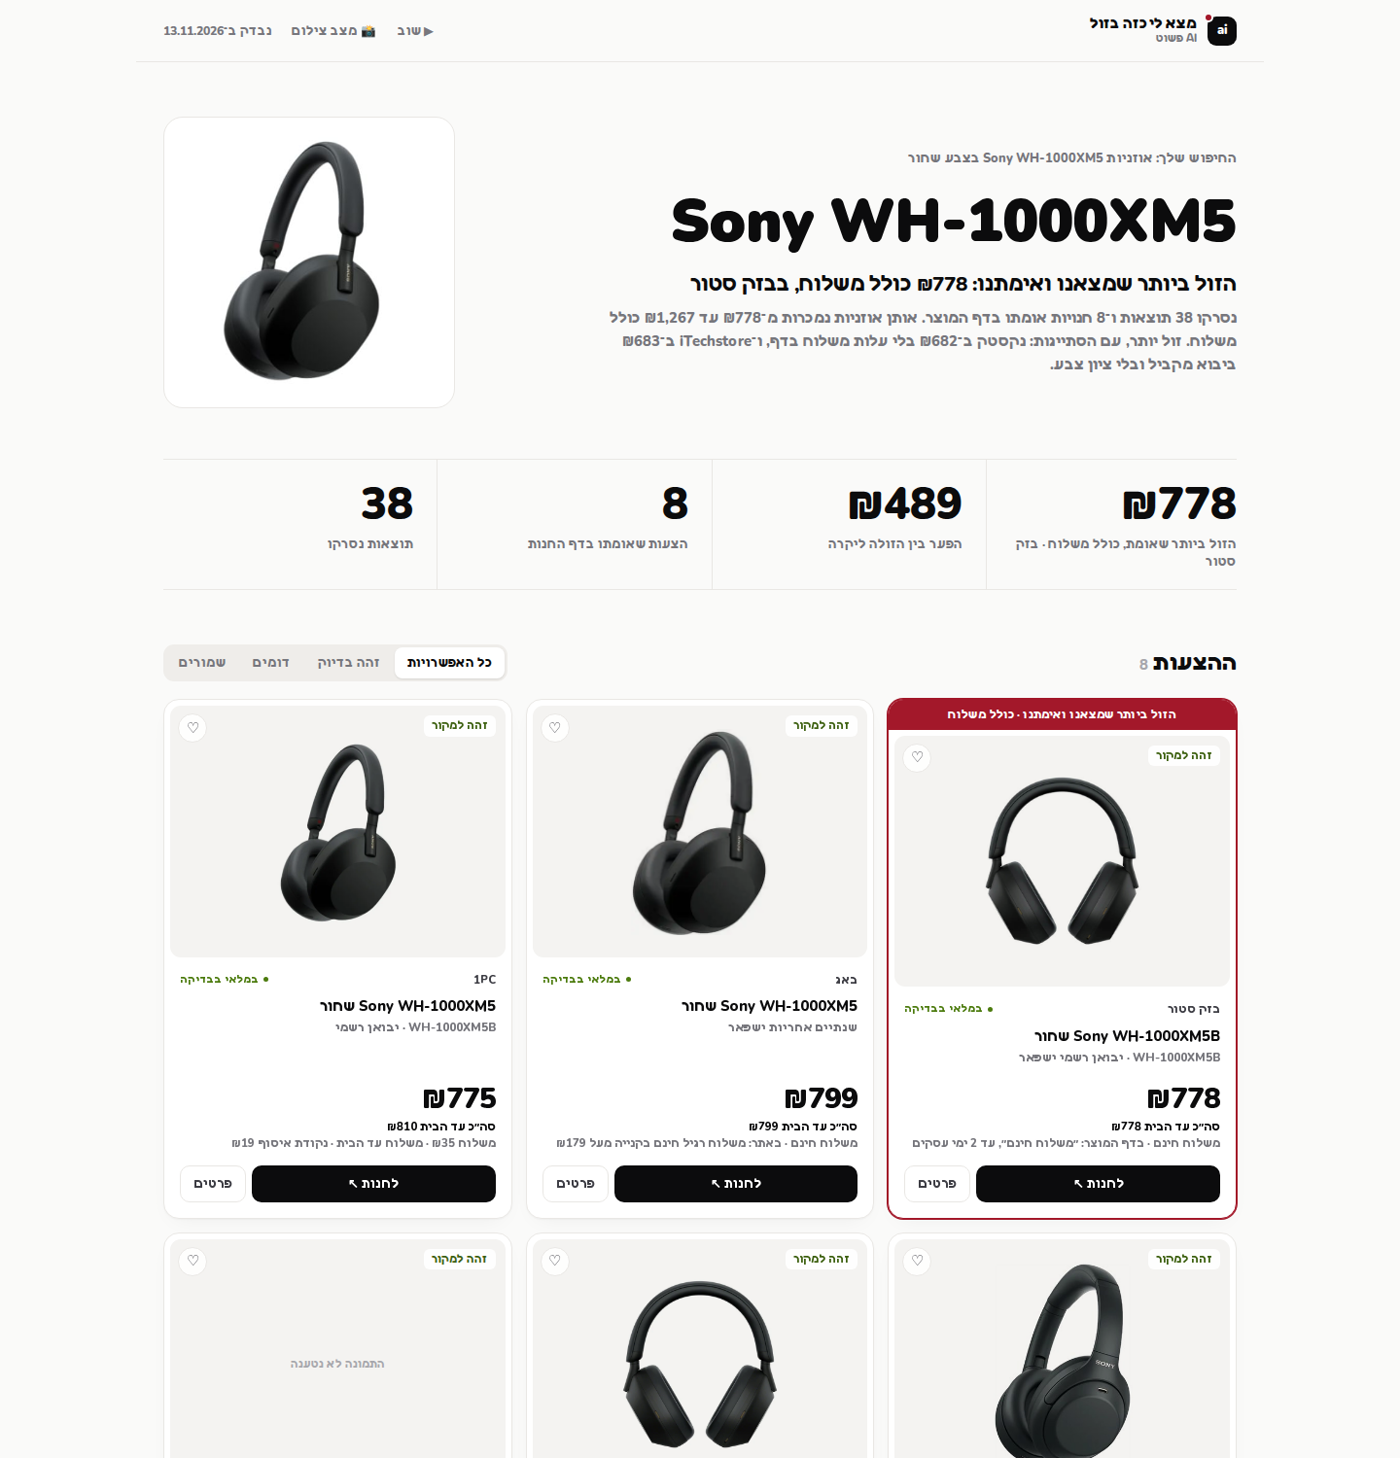
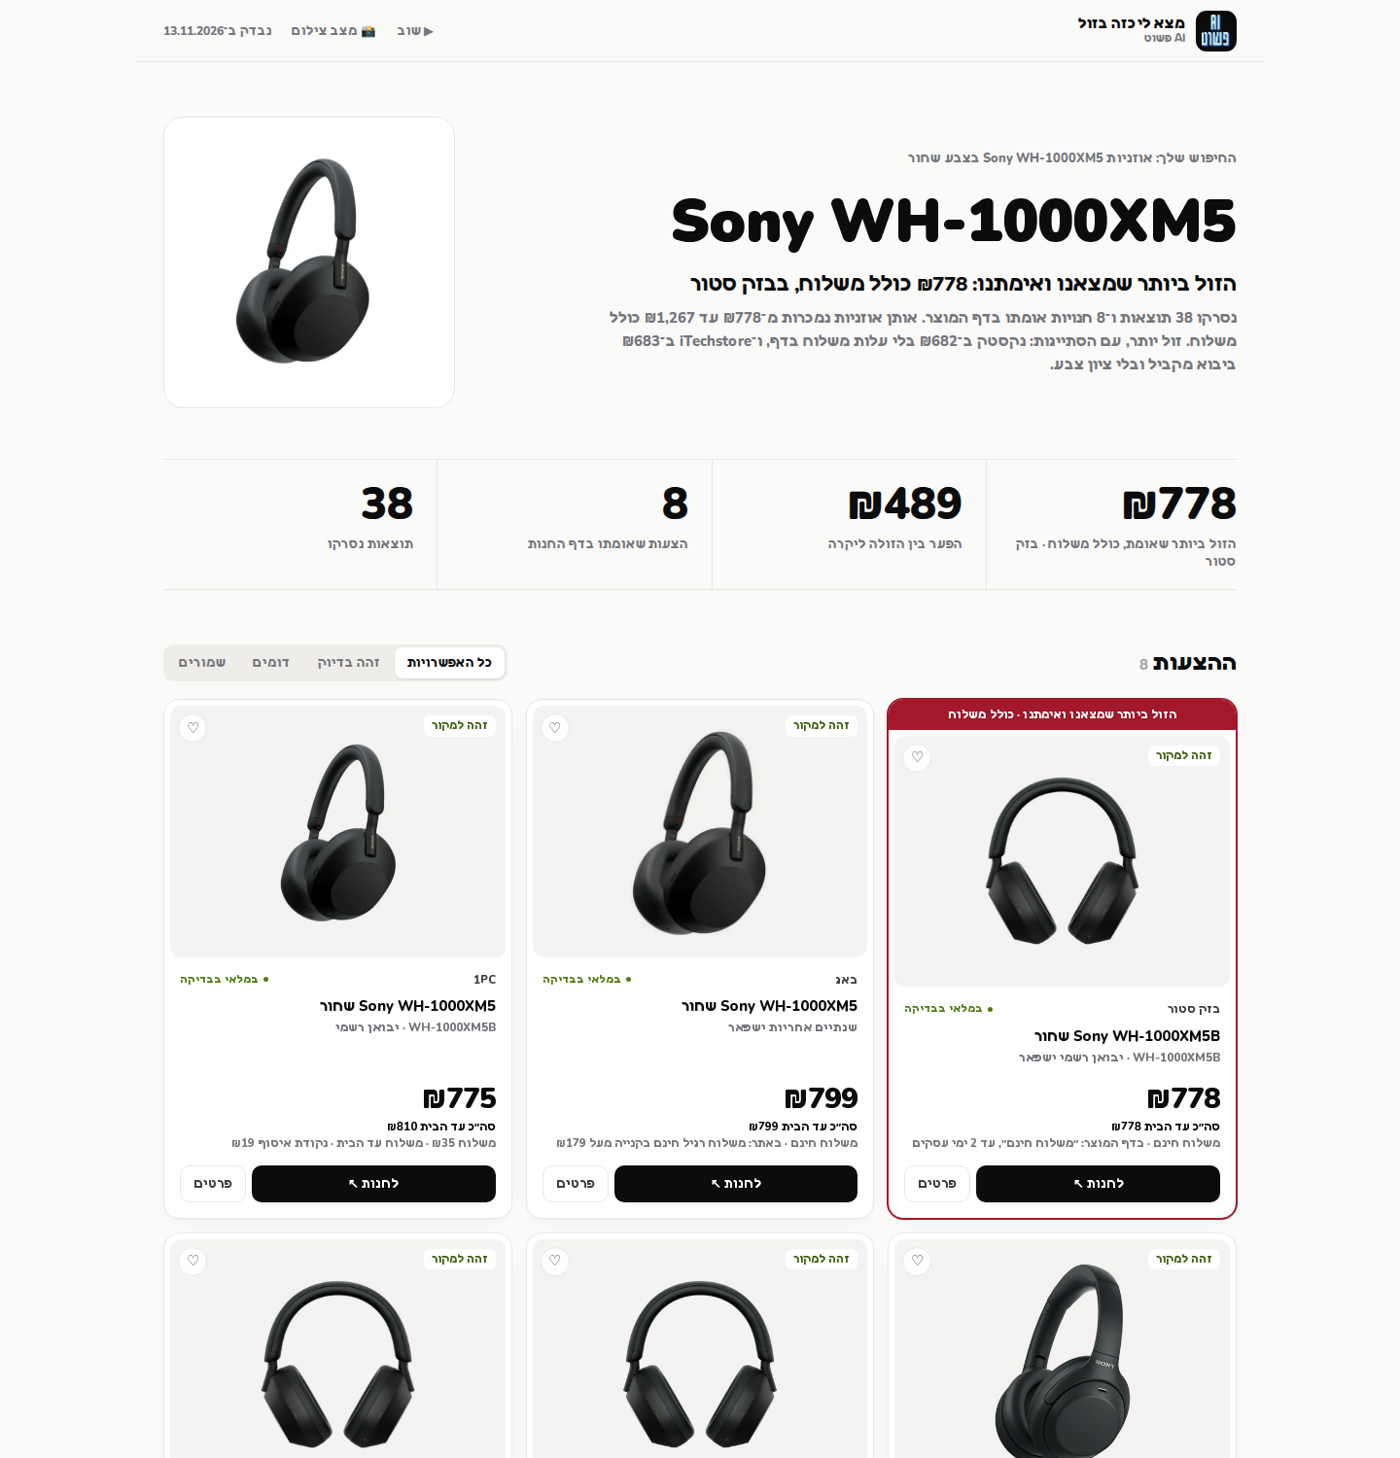
תמונות מוצר בלי חיתוך, לוגו AI פשוט בדוח, המלצה על המודל המתקדם, פתיחה בדפדפן אמיתי ב-Codex

diff --git a/assets/report-template.html b/assets/report-template.html
@@ -28,8 +28,8 @@ p{margin:0}
 /* nav */
 .nav{height:64px;display:flex;align-items:center;justify-content:space-between;border-bottom:1px solid var(--line)}
 .brand{display:flex;align-items:center;gap:11px}
-.logo{width:30px;height:30px;border-radius:9px;background:var(--ink);color:#fff;display:grid;place-items:center;font-size:13px;font-weight:800;position:relative;direction:ltr}
-.logo i{position:absolute;width:6px;height:6px;border-radius:50%;background:var(--accent);left:-2px;top:-2px;box-shadow:0 0 0 2px var(--bg)}
[1 lines of base64/hex data omitted]
+
 .brand b{font-size:14px;font-weight:800;display:block;line-height:1.2}
 .brand small{font-size:11px;color:var(--muted);display:block;line-height:1.2}
 .header-actions{display:flex;align-items:center;gap:8px}
@@ -54,7 +54,7 @@ h1{font-size:clamp(34px,5vw,62px);font-weight:900;line-height:1.08;margin:20px 0
 
 
 .top-media{background:var(--card);border:1px solid var(--line);border-radius:20px;padding:8px}
-.source-img{width:100%;aspect-ratio:1;object-fit:cover;border-radius:15px;display:block;background:var(--well)}
+.source-img{width:100%;aspect-ratio:1;object-fit:contain;border-radius:15px;display:block;background:#fff;padding:7%}
 .img-missing{display:grid;place-items:center;text-align:center;color:var(--faint);font-size:11px;background:var(--well);border-radius:12px;padding:8px}
 .top-media .img-missing{aspect-ratio:1;font-size:30px;border-radius:15px}
 
@@ -164,12 +164,12 @@ body.film .in-skip,body.film .in-snd,body.film .header-actions{display:none}
 .in-counter b{color:var(--accent);font-size:15px;font-weight:700;font-variant-numeric:tabular-nums}
 .in-abs{left:0;top:0}
 .in-photo{border-radius:22px;overflow:hidden;background:#fff;border:1px solid #ffffff38;box-shadow:0 0 0 6px #ffb4bd14,0 30px 80px -10px #0a0204,0 0 130px #e11d4859;display:grid;place-items:center;font-size:48px;color:#52525b;opacity:0}
-.in-photo img{width:100%;height:100%;object-fit:cover;display:block}
+.in-photo img{width:100%;height:100%;object-fit:contain;display:block;padding:8%}
 .in-scan{position:absolute;left:0;right:0;top:0;height:26%;background:linear-gradient(#ffd9b300,#ffd9b366);border-bottom:1px solid #fff3e6;opacity:0}
 .in-tag{background:#2a0a13d9;color:#fff;border:1px solid #ffffff26;border-radius:999px;padding:5px 13px;font-weight:500;font-size:clamp(11px,1.2vw,14px);white-space:nowrap;box-shadow:0 10px 30px #000a;backdrop-filter:blur(8px);opacity:0}
 .in-tile{border-radius:9px;background:#2a0a13;border:1px solid #ffb4bd33;display:grid;place-items:center;overflow:hidden;font-weight:500;text-align:center;line-height:1.2;padding:4px;color:#d9d9de;opacity:0;box-shadow:0 8px 22px -6px #000c}
 .in-tile span{overflow:hidden;max-height:100%;overflow-wrap:anywhere}
-.in-tile img{position:absolute;inset:0;width:100%;height:100%;object-fit:cover;background:#fff}
+.in-tile img{position:absolute;inset:0;width:100%;height:100%;object-fit:contain;background:#fff;padding:2px}
 .in-tile.ok{border-color:#fff;box-shadow:0 0 0 1px #fff,0 0 36px #ffd9b399;color:#fff}
 .in-tile.no{border-color:#fb923c80}
 
@@ -233,7 +233,7 @@ dialog{padding:20px}
 </head>
 <body>
 <header class="nav">
-  <div class="brand"><span class="logo" aria-hidden="true">ai<i></i></span><span><b>מצא לי כזה בזול</b><small>AI פשוט</small></span></div>
+  <div class="brand"><span class="logo" role="img" aria-label="AI פשוט"></span><span><b>מצא לי כזה בזול</b><small>AI פשוט</small></span></div>
   <div class="header-actions" id="header-tags"></div>
 </header>
 <main>

diff --git a/SKILL.md b/SKILL.md
@@ -68,7 +68,7 @@ After verification, also deliver the result as a designed, clickable report: the
 1. Write `report.json` following references/report-schema.md, from the verified evidence of this run only. Pictures are not optional: every offer needs the product image from its own page (`check_pages.py` returns it as `image`; otherwise take the page's `og:image`), and `product.image` is the user's photo or, without one, a clean picture of the product. A report with a card that has no picture is not acceptable, and the builder refuses to make one.
 2. Run `python3 scripts/build_report.py report.json -o <product-slug>.html`. On Windows, if `python3` is not found use `python` or `py`. It validates the data and writes one self-contained HTML file from assets/report-template.html. If it rejects the report, correct the data (for example drop `top_pick`, set shipping to `unknown`); never edit the script or template to get past a check.
 3. The build script puts the report on the user's screen by itself (a dedicated browser window, brought to the front where the system allows) and prints `OPENED …` or `NOT OPENED …` with the full path. Never claim it opened without the `OPENED` line.
-4. If it printed `NOT OPENED`, the host is probably sandboxed (Codex and similar). Opening the user's own report is the point of the task, so request approval to run this one command outside the sandbox and run it: `python3 scripts/build_report.py --open <report.html>`. Only if that is refused or fails too, give the full path.
+4. In a sandboxed desktop host (Codex and similar) the build runs inside the sandbox and cannot reach the user's real browser. Do not settle for the host's built-in preview or internal browser, and do not just hand over a link: request approval to run this one command outside the sandbox (escalated / full permissions) and run it: `python3 scripts/build_report.py --open <report.html>`. It opens the report in the user's real browser, in front, with sound. Only if the user refuses, or it still prints `NOT OPENED`, give the full path.
 5. In a chat app with no local browser, pass `--no-open` and present the HTML as an artifact / preview or a file.
 6. Finish with the single closing line from "Say almost nothing". Do not change the template's design or wording per run.
 

diff --git a/README.md b/README.md
@@ -29,6 +29,7 @@
 ## מה צריך
 
 - Claude Code (כלול במנוי Claude בתשלום) או Codex של OpenAI.
+- מומלץ לעבוד עם המודל המתקדם ביותר שזמין לכם. ב-Claude Code זה Opus 5.5 ומעלה. מודלים קטנים יותר מפספסים חנויות ועושים יותר טעויות.
 - פייתון 3.9 ומעלה. במק הוא בדרך כלל כבר מותקן. בווינדוס מתקינים מ-python.org.
 - אין מפתח API ואין תשלום נוסף.
 
